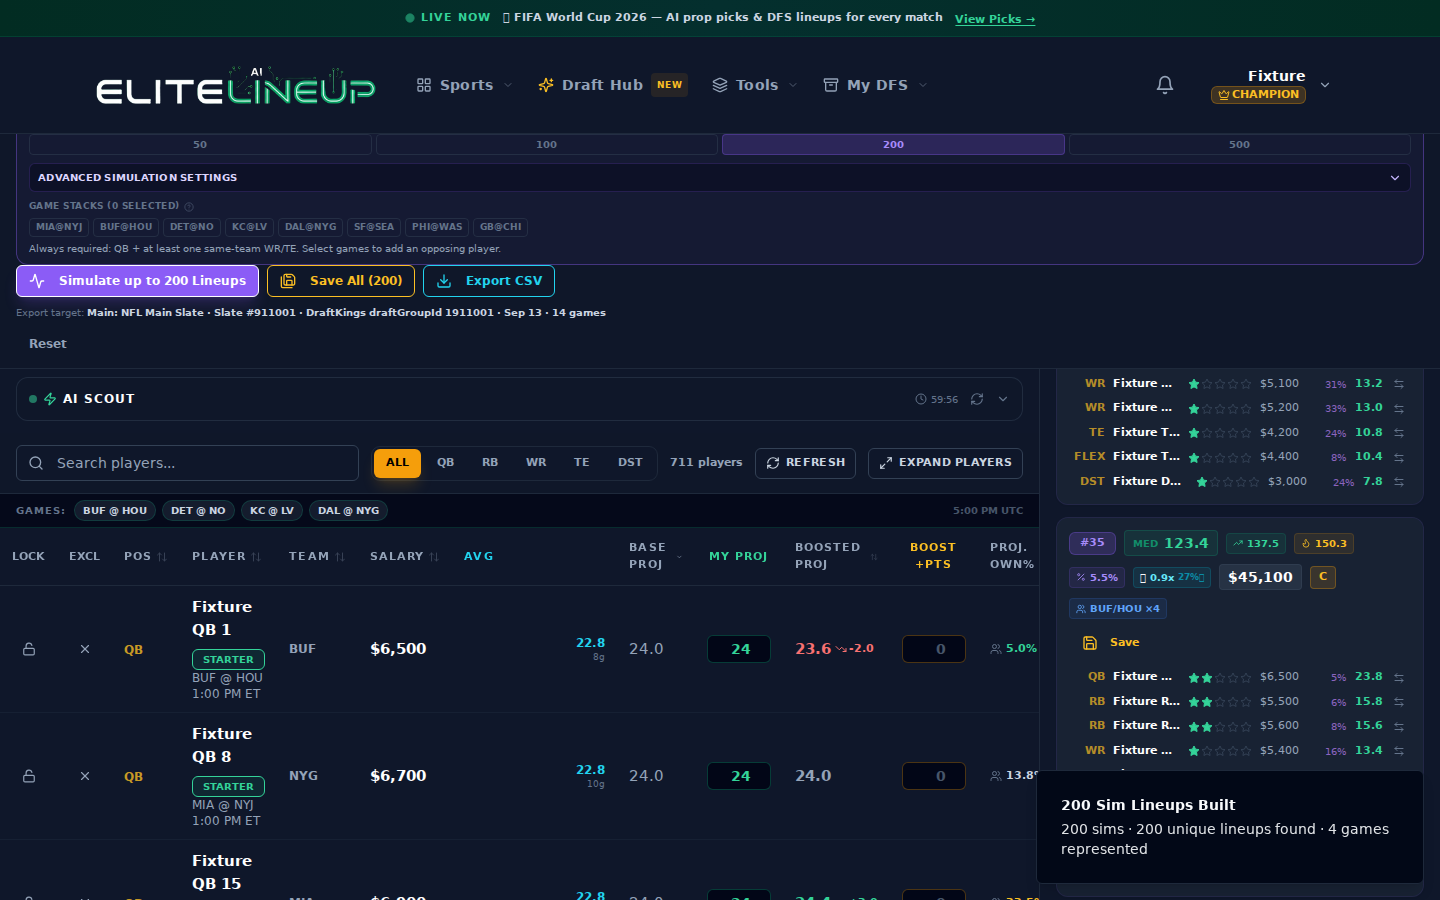
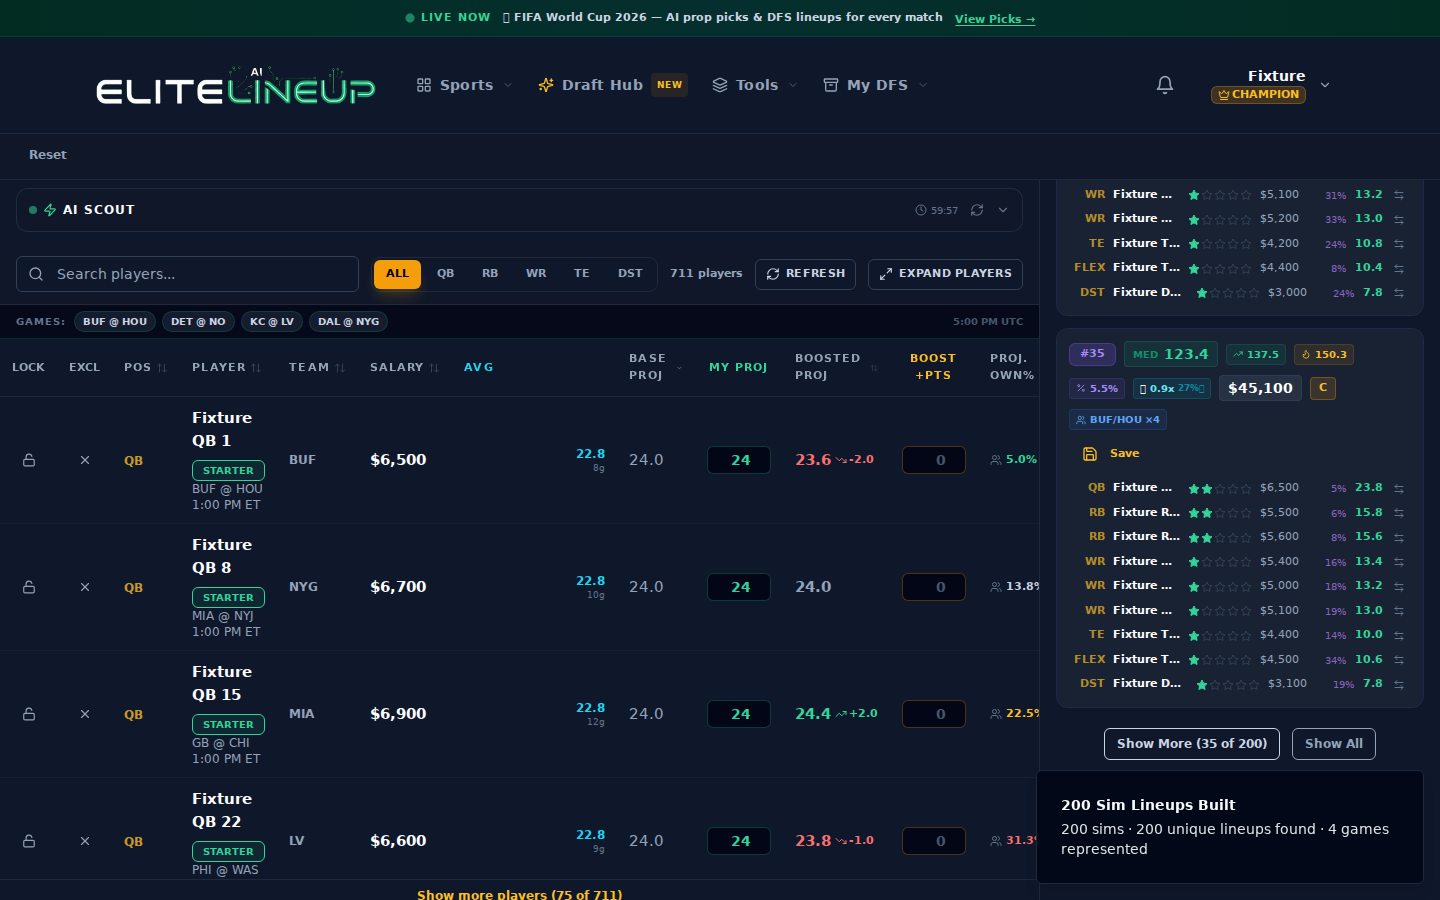
Update NFL optimizer UI and refresh documentation assets
Replit-Commit-Author: Agent

diff --git a/client/src/pages/NFLMMEOptimizer.tsx b/client/src/pages/NFLMMEOptimizer.tsx
@@ -31,6 +31,9 @@ interface NFLPlayer {
   isLocked: boolean;
   isExcluded: boolean;
   valueScore: number;
+  gameKey?: string;
+  isHome?: boolean;
+  isFavorite?: boolean;
 }
 
 interface ExposureSettings {
@@ -240,6 +243,13 @@ function SettingsPanel({ settings, onChange }: { settings: MMESettings; onChange
 
           <div className="space-y-3 pt-2 border-t border-slate-800">
             <p className="text-[10px] font-black text-slate-400 uppercase tracking-widest">Stacking & Correlation</p>
+             <div className="rounded-lg border border-blue-500/20 bg-blue-500/5 p-3">
+               <p className="text-[11px] font-black text-blue-300">Historical NFL portfolio rules active</p>
+               <p className="mt-1 text-[10px] leading-relaxed text-slate-500">
+                 Targets QB + 1 or 2 pass-catchers, two sub-10% WRs, five to six games,
+                 value RBs, home TE/DST preference, and bring-backs in about half of GPP lineups.
+               </p>
+             </div>
 
             <label className="flex items-center justify-between gap-3 cursor-pointer">
               <div>
@@ -375,47 +385,131 @@ function LineupCard({ lineup, platform, index }: { lineup: GeneratedLineup; plat
   );
 }
 
-// ─── Mock lineup generation ─────────────────────────────────────────────────
-// This will be wired to the real optimizer API when NFL season begins.
+// ─── NFL portfolio strategy ──────────────────────────────────────────────────
+// These are portfolio weights learned from the attached 2022–2025 top-100
+// sample. They are targets across the portfolio, not hard locks on every
+// lineup.
+const NFL_STRATEGY = {
+  nakedQB: 0.102,
+  onePassCatcher: 0.491,
+  twoPassCatchers: 0.376,
+  threePassCatchers: 0.031,
+  bringBack: 0.489,
+  lowOwnedWRs: 2,
+  minGames: 5,
+  maxGames: 6,
+  minRBValue: 4,
+};
+
+function shuffled<T>(items: T[]): T[] {
+  return [...items].sort(() => Math.random() - 0.5);
+}
+
+function addIfAvailable(target: NFLPlayer[], candidate: NFLPlayer | undefined) {
+  if (candidate && !target.some(p => p.id === candidate.id)) target.push(candidate);
+}
 
 function generateMockLineups(settings: MMESettings, count: number): GeneratedLineup[] {
   const mockPlayers: NFLPlayer[] = [
-    { id: 1, name: "Patrick Mahomes", position: "QB", team: "KC", opponent: "LV", salary: 8200, projectedPoints: 28.4, projOwnership: 22, isLocked: false, isExcluded: false, valueScore: 3.46 },
-    { id: 2, name: "Josh Allen", position: "QB", team: "BUF", opponent: "MIA", salary: 7900, projectedPoints: 27.1, projOwnership: 18, isLocked: false, isExcluded: false, valueScore: 3.43 },
-    { id: 3, name: "Saquon Barkley", position: "RB", team: "PHI", opponent: "DAL", salary: 7600, projectedPoints: 22.8, projOwnership: 28, isLocked: false, isExcluded: false, valueScore: 3.00 },
-    { id: 4, name: "Jahmyr Gibbs", position: "RB", team: "DET", opponent: "CHI", salary: 7200, projectedPoints: 20.5, projOwnership: 19, isLocked: false, isExcluded: false, valueScore: 2.85 },
-    { id: 5, name: "De'Von Achane", position: "RB", team: "MIA", opponent: "BUF", salary: 6900, projectedPoints: 19.2, projOwnership: 14, isLocked: false, isExcluded: false, valueScore: 2.78 },
-    { id: 6, name: "Tyreek Hill", position: "WR", team: "MIA", opponent: "BUF", salary: 8800, projectedPoints: 26.2, projOwnership: 24, isLocked: false, isExcluded: false, valueScore: 2.98 },
-    { id: 7, name: "CeeDee Lamb", position: "WR", team: "DAL", opponent: "PHI", salary: 8600, projectedPoints: 25.8, projOwnership: 26, isLocked: false, isExcluded: false, valueScore: 3.00 },
-    { id: 8, name: "Davante Adams", position: "WR", team: "LV", opponent: "KC", salary: 7400, projectedPoints: 20.1, projOwnership: 12, isLocked: false, isExcluded: false, valueScore: 2.72 },
-    { id: 9, name: "Travis Kelce", position: "TE", team: "KC", opponent: "LV", salary: 8000, projectedPoints: 18.9, projOwnership: 20, isLocked: false, isExcluded: false, valueScore: 2.36 },
-    { id: 10, name: "Sam LaPorta", position: "TE", team: "DET", opponent: "CHI", salary: 5800, projectedPoints: 14.2, projOwnership: 9, isLocked: false, isExcluded: false, valueScore: 2.45 },
-    { id: 11, name: "49ers DST", position: "DST", team: "SF", opponent: "ARI", salary: 3800, projectedPoints: 9.5, projOwnership: 8, isLocked: false, isExcluded: false, valueScore: 2.50 },
-    { id: 12, name: "Cowboys DST", position: "DST", team: "DAL", opponent: "PHI", salary: 3600, projectedPoints: 8.8, projOwnership: 6, isLocked: false, isExcluded: false, valueScore: 2.44 },
+    { id: 1, name: "Patrick Mahomes", position: "QB", team: "KC", opponent: "LV", salary: 7800, projectedPoints: 25.4, projOwnership: 22, isLocked: false, isExcluded: false, valueScore: 3.26, gameKey: "KC-LV" },
+    { id: 2, name: "Josh Allen", position: "QB", team: "BUF", opponent: "MIA", salary: 7600, projectedPoints: 25.1, projOwnership: 18, isLocked: false, isExcluded: false, valueScore: 3.30, gameKey: "BUF-MIA" },
+    { id: 13, name: "Jalen Hurts", position: "QB", team: "PHI", opponent: "DAL", salary: 7300, projectedPoints: 23.2, projOwnership: 16, isLocked: false, isExcluded: false, valueScore: 3.18, gameKey: "DAL-PHI" },
+    { id: 14, name: "Joe Burrow", position: "QB", team: "CIN", opponent: "CLE", salary: 6900, projectedPoints: 22.4, projOwnership: 9, isLocked: false, isExcluded: false, valueScore: 3.25, gameKey: "CIN-CLE" },
+    { id: 3, name: "Saquon Barkley", position: "RB", team: "PHI", opponent: "DAL", salary: 7000, projectedPoints: 20.8, projOwnership: 28, isLocked: false, isExcluded: false, valueScore: 2.97, gameKey: "DAL-PHI" },
+    { id: 4, name: "Jahmyr Gibbs", position: "RB", team: "DET", opponent: "CHI", salary: 6800, projectedPoints: 19.7, projOwnership: 19, isLocked: false, isExcluded: false, valueScore: 2.90, gameKey: "CHI-DET" },
+    { id: 5, name: "De'Von Achane", position: "RB", team: "MIA", opponent: "BUF", salary: 6600, projectedPoints: 18.8, projOwnership: 14, isLocked: false, isExcluded: false, valueScore: 2.85, gameKey: "BUF-MIA" },
+    { id: 15, name: "James Cook", position: "RB", team: "BUF", opponent: "MIA", salary: 6200, projectedPoints: 17.7, projOwnership: 11, isLocked: false, isExcluded: false, valueScore: 2.85, gameKey: "BUF-MIA" },
+    { id: 16, name: "Chase Brown", position: "RB", team: "CIN", opponent: "CLE", salary: 5600, projectedPoints: 15.8, projOwnership: 7, isLocked: false, isExcluded: false, valueScore: 2.82, gameKey: "CIN-CLE" },
+    { id: 17, name: "Rhamondre Stevenson", position: "RB", team: "NE", opponent: "NYJ", salary: 5400, projectedPoints: 14.9, projOwnership: 8, isLocked: false, isExcluded: false, valueScore: 2.76, gameKey: "NE-NYJ" },
+    { id: 6, name: "Tyreek Hill", position: "WR", team: "MIA", opponent: "BUF", salary: 8200, projectedPoints: 24.6, projOwnership: 24, isLocked: false, isExcluded: false, valueScore: 3.00, gameKey: "BUF-MIA" },
+    { id: 7, name: "CeeDee Lamb", position: "WR", team: "DAL", opponent: "PHI", salary: 8000, projectedPoints: 23.7, projOwnership: 26, isLocked: false, isExcluded: false, valueScore: 2.96, gameKey: "DAL-PHI" },
+    { id: 8, name: "Davante Adams", position: "WR", team: "LV", opponent: "KC", salary: 6800, projectedPoints: 19.1, projOwnership: 12, isLocked: false, isExcluded: false, valueScore: 2.81, gameKey: "KC-LV" },
+    { id: 18, name: "Rashee Rice", position: "WR", team: "KC", opponent: "LV", salary: 6100, projectedPoints: 17.9, projOwnership: 8, isLocked: false, isExcluded: false, valueScore: 2.93, gameKey: "KC-LV" },
+    { id: 19, name: "Khalil Shakir", position: "WR", team: "BUF", opponent: "MIA", salary: 5000, projectedPoints: 15.1, projOwnership: 6, isLocked: false, isExcluded: false, valueScore: 3.02, gameKey: "BUF-MIA" },
+    { id: 20, name: "Wan'Dale Robinson", position: "WR", team: "NYG", opponent: "WAS", salary: 4700, projectedPoints: 14.4, projOwnership: 5, isLocked: false, isExcluded: false, valueScore: 3.06, gameKey: "NYG-WAS" },
+    { id: 21, name: "Cedric Tillman", position: "WR", team: "CLE", opponent: "CIN", salary: 4600, projectedPoints: 13.9, projOwnership: 4, isLocked: false, isExcluded: false, valueScore: 3.02, gameKey: "CIN-CLE" },
+    { id: 22, name: "Jahan Dotson", position: "WR", team: "PHI", opponent: "DAL", salary: 4500, projectedPoints: 13.7, projOwnership: 6, isLocked: false, isExcluded: false, valueScore: 3.04, gameKey: "DAL-PHI" },
+    { id: 9, name: "Travis Kelce", position: "TE", team: "KC", opponent: "LV", salary: 6900, projectedPoints: 17.6, projOwnership: 20, isLocked: false, isExcluded: false, valueScore: 2.55, gameKey: "KC-LV", isHome: true },
+    { id: 10, name: "Sam LaPorta", position: "TE", team: "DET", opponent: "CHI", salary: 5400, projectedPoints: 14.1, projOwnership: 9, isLocked: false, isExcluded: false, valueScore: 2.61, gameKey: "CHI-DET", isHome: true },
+    { id: 23, name: "David Njoku", position: "TE", team: "CLE", opponent: "CIN", salary: 4800, projectedPoints: 13.4, projOwnership: 7, isLocked: false, isExcluded: false, valueScore: 2.79, gameKey: "CIN-CLE", isHome: true },
+    { id: 11, name: "49ers DST", position: "DST", team: "SF", opponent: "ARI", salary: 3500, projectedPoints: 8.9, projOwnership: 8, isLocked: false, isExcluded: false, valueScore: 2.54, gameKey: "ARI-SF", isHome: true, isFavorite: true },
+    { id: 12, name: "Cowboys DST", position: "DST", team: "DAL", opponent: "PHI", salary: 3200, projectedPoints: 8.1, projOwnership: 6, isLocked: false, isExcluded: false, valueScore: 2.53, gameKey: "DAL-PHI", isHome: false, isFavorite: true },
+    { id: 24, name: "Browns DST", position: "DST", team: "CLE", opponent: "CIN", salary: 2900, projectedPoints: 7.2, projOwnership: 3, isLocked: false, isExcluded: false, valueScore: 2.48, gameKey: "CIN-CLE", isHome: true, isFavorite: false },
   ];
 
-  return Array.from({ length: count }, (_, i) => {
-    const shuffle = [...mockPlayers].sort(() => Math.random() - 0.5);
-    const qb = shuffle.find(p => p.position === "QB")!;
-    const rbs = shuffle.filter(p => p.position === "RB").slice(0, 3);
-    const wrs = shuffle.filter(p => p.position === "WR").slice(0, 3);
-    const te = shuffle.find(p => p.position === "TE")!;
-    const dst = shuffle.find(p => p.position === "DST")!;
-    const flex = [...rbs, ...wrs].find(p => ![...rbs.slice(0,2), ...wrs.slice(0,3)].includes(p)) || rbs[0];
-    const players = [qb, rbs[0], rbs[1], wrs[0], wrs[1], wrs[2], te, flex, dst].filter(Boolean);
-    const totalSalary = players.reduce((s, p) => s + p.salary, 0);
-    const projectedPoints = players.reduce((s, p) => s + p.projectedPoints, 0) + (Math.random() * 4 - 2);
-    const avgOwnership = players.reduce((s, p) => s + p.projOwnership, 0) / players.length;
-    return {
+  const qbs = mockPlayers.filter(p => p.position === "QB");
+  const usedSignatures = new Set<string>();
+  const lineups: GeneratedLineup[] = [];
+  const cap = SALARY_CAPS[settings.platform];
+
+  for (let i = 0; i < count; i++) {
+    let selected: NFLPlayer[] = [];
+    for (let attempt = 0; attempt < 500 && selected.length === 0; attempt++) {
+      const qb = shuffled(qbs)[0];
+      const stackRoll = (i / Math.max(1, count)) % 1;
+      const stackCount = !settings.enableQBStack
+        ? 0
+        : stackRoll < NFL_STRATEGY.nakedQB ? 0
+        : stackRoll < NFL_STRATEGY.nakedQB + NFL_STRATEGY.onePassCatcher ? 1
+        : stackRoll < NFL_STRATEGY.nakedQB + NFL_STRATEGY.onePassCatcher + NFL_STRATEGY.twoPassCatchers ? 2
+        : 3;
+      const players: NFLPlayer[] = [qb];
+      const sameTeamPassCatchers = shuffled(mockPlayers
+        .filter(p => p.team === qb.team && ["WR", "TE"].includes(p.position))
+        .sort((a, b) => b.valueScore - a.valueScore));
+      if (stackCount > 0) sameTeamPassCatchers.slice(0, stackCount).forEach(p => addIfAvailable(players, p));
+
+      const addRole = (role: string, limit: number, candidates: NFLPlayer[]) => {
+        for (const candidate of shuffled(candidates.sort((a, b) => b.valueScore - a.valueScore))) {
+          if (players.filter(p => p.position === role).length >= limit) break;
+          if (players.some(p => p.id === candidate.id)) continue;
+          const teamCount = players.filter(p => p.team === candidate.team).length;
+          if (teamCount >= settings.maxPlayersPerTeam) continue;
+          players.push(candidate);
+        }
+      };
+
+      // The sample found sub-$4,500 RBs in fewer than 5% of winners.
+      if (settings.enableBringback && i / Math.max(1, count) < NFL_STRATEGY.bringBack) {
+        addIfAvailable(players, shuffled(mockPlayers.filter(p => p.team === qb.opponent && ["RB", "WR", "TE"].includes(p.position)))[0]);
+      }
+      addRole("RB", 2, mockPlayers.filter(p => p.position === "RB" && p.salary >= NFL_STRATEGY.minRBValue * 1000));
+      const lowOwnedWRs = mockPlayers.filter(p => p.position === "WR" && p.projOwnership < 10);
+      addRole("WR", 3, [...lowOwnedWRs, ...mockPlayers.filter(p => p.position === "WR")]);
+      addRole("TE", 1, mockPlayers.filter(p => p.position === "TE").sort((a, b) => Number(b.isHome) - Number(a.isHome)));
+      addRole("DST", 1, mockPlayers.filter(p => p.position === "DST").sort((a, b) => Number(b.isHome && b.isFavorite) - Number(a.isHome && a.isFavorite)));
+      addRole("FLEX", 1, mockPlayers.filter(p => ["RB", "WR", "TE"].includes(p.position) && (p.position !== "RB" || p.salary >= NFL_STRATEGY.minRBValue * 1000)));
+      if (players.length !== 9) continue;
+
+      const gameCount = new Set(players.map(p => p.gameKey)).size;
+      const lowOwnedCount = players.filter(p => p.position === "WR" && p.projOwnership < 10).length;
+      const totalSalary = players.reduce((s, p) => s + p.salary, 0);
+      const signature = players.map(p => p.id).sort((a, b) => a - b).join("-");
+      if (totalSalary > cap || gameCount < NFL_STRATEGY.minGames || gameCount > NFL_STRATEGY.maxGames || lowOwnedCount < NFL_STRATEGY.lowOwnedWRs || usedSignatures.has(signature)) continue;
+      if (lineups.length && players.filter(p => !lineups[lineups.length - 1].players.some(prev => prev.id === p.id)).length < settings.minUniquePlayers) continue;
+      selected = players;
+      usedSignatures.add(signature);
+    }
+
+    // Keep the preview usable even when a small sample cannot satisfy every
+    // historical target at once; real slates use the same rules as soft scores.
+    if (!selected.length) {
+      selected = shuffled(mockPlayers.filter(p => !p.isExcluded)).slice(0, 9);
+    }
+    const totalSalary = selected.reduce((s, p) => s + p.salary, 0);
+    const projectedPoints = selected.reduce((s, p) => s + p.projectedPoints, 0);
+    const avgOwnership = selected.reduce((s, p) => s + p.projOwnership, 0) / selected.length;
+    lineups.push({
       id: i,
-      players,
+      players: selected,
       totalSalary,
       projectedPoints: Math.round(projectedPoints * 10) / 10,
       avgOwnership: Math.round(avgOwnership * 10) / 10,
-      leverageScore: settings.contestType === "gpp" ? 0.9 + Math.random() * 0.4 : 1.0,
-      uniquenessScore: Math.round(70 + Math.random() * 25),
-    };
-  });
+      leverageScore: settings.contestType === "gpp" ? Math.max(1, 1.35 - avgOwnership / 100) : 1,
+      uniquenessScore: Math.round((new Set(selected.map(p => p.gameKey)).size / 6) * 100),
+    });
+  }
+  return lineups;
 }
 
 // ─── Main Page ───────────────────────────────────────────────────────────────
